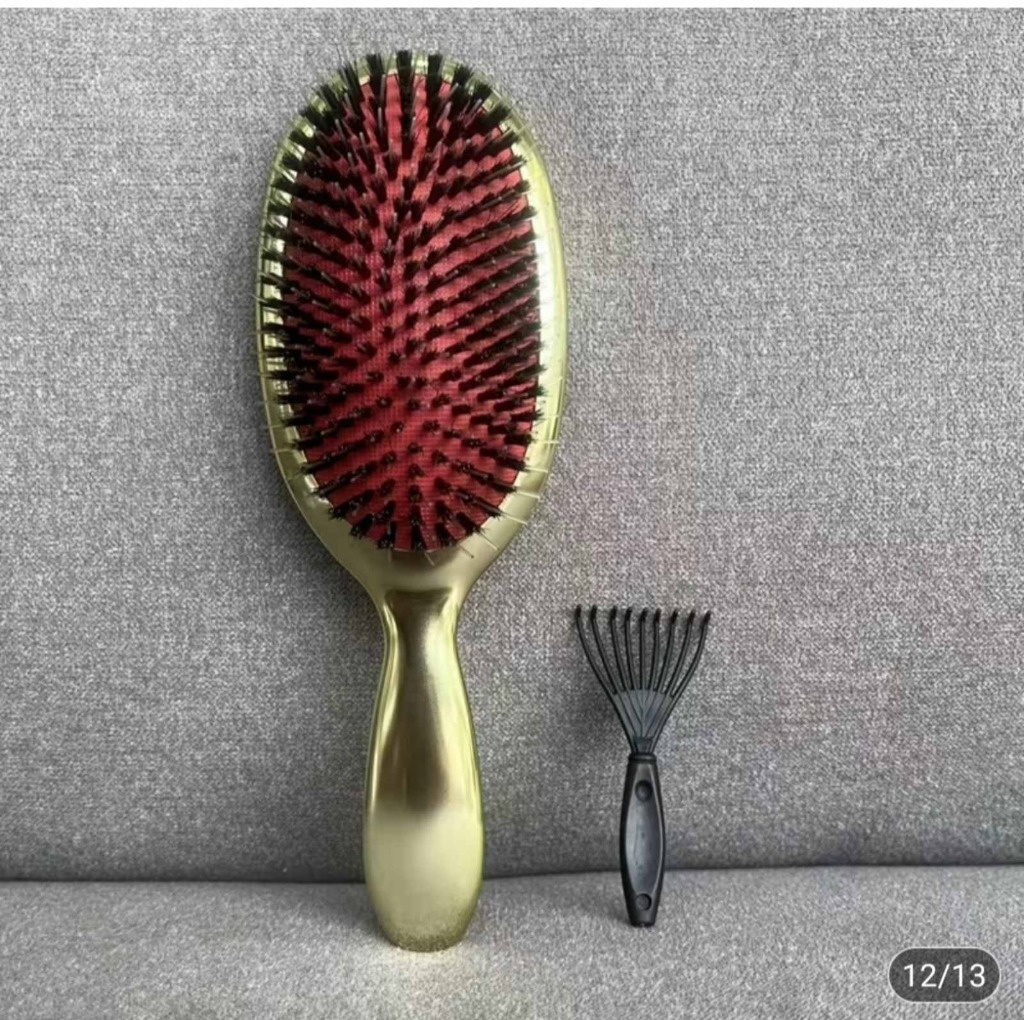
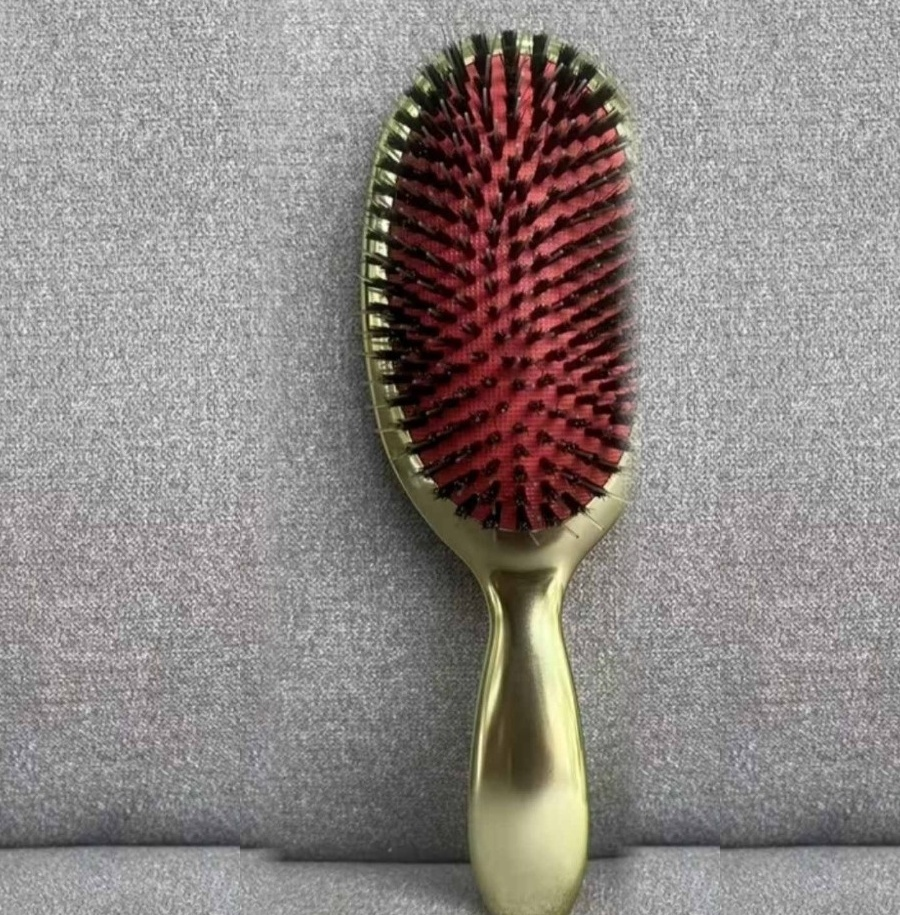
Set official salon address to Sunny Beach, Kamelia, Park 1, No 2, Fl 1 and update boar bristle brush to 14.99 EUR without comb

diff --git a/index.html b/index.html
@@ -64,13 +64,12 @@
   <div class="bg-stone-900 text-white text-[11px] sm:text-xs py-2 px-4 border-b border-amber-500/20">
     <div class="max-w-7xl mx-auto flex items-center justify-between">
       <div class="flex items-center gap-4 text-stone-300 font-medium tracking-wide">
-        <span class="hidden md:inline-flex items-center gap-1.5">
-          <i data-lucide="shield-check" class="w-3.5 h-3.5 text-amber-400"></i>
-          100% Необработена Славянска Коса (Single Donor Cuticle Intact)
+        <span class="inline-flex items-center gap-1.5 text-amber-400 font-bold">
+          <i data-lucide="map-pin" class="w-3.5 h-3.5"></i>
+          Салон: к.к. Слънчев бряг, кв. Камелия, Парк 1, № 2, ет. 1
         </span>
-        <span class="inline-flex items-center gap-1.5 text-amber-300 font-semibold">
-          <i data-lucide="truck" class="w-3.5 h-3.5"></i>
-          Бърза доставка с преглед и тест със Спиди / Еконт
+        <span class="hidden xl:inline-flex items-center gap-1.5 text-stone-400">
+          • 100% Славянска Коса • Доставка с преглед и тест
         </span>
       </div>
       <div class="flex items-center gap-3 sm:gap-4 font-mono text-xs">
@@ -247,13 +246,13 @@
         
         <div class="text-center max-w-3xl mx-auto mb-8 sm:mb-12">
           <div class="inline-block text-xs uppercase tracking-widest text-amber-400 font-mono font-bold mb-2">
-            [ Ексклузивни Процедури • София & Варна ]
+            [ Салон & Бутик • к.к. Слънчев бряг, кв. Камелия, Парк 1, № 2, ет. 1 ]
           </div>
           <h2 class="font-cinzel text-2xl sm:text-4xl lg:text-5xl font-bold text-white mb-3">
             Разкрий своята красота с <span class="text-amber-400 font-cormorant italic font-normal">прецизност и внимание към детайла</span>
           </h2>
           <p class="text-stone-400 text-xs sm:text-sm">
-            Запазете своя индивидуален час за удължаване на коса, японски спа ритуал или професионално обучение при Деница.
+            Запазете своя индивидуален час в салона ни в Слънчев бряг за удължаване на коса, японски спа ритуал или професионално обучение при Деница.
           </p>
         </div>
 
@@ -281,16 +280,16 @@
                 <a href="#hair-configurator" class="mila-bronze-btn w-full sm:w-auto px-3 sm:px-6 py-2.5 sm:py-3 text-[11px] sm:text-xs uppercase tracking-wider font-bold shadow-md text-center justify-center">
                   ПОДРОБНОСТИ
                 </a>
-                <a href="#booking" data-city="София" data-service="Удължаване със Славянска Коса 55см" class="mila-dark-btn w-full sm:w-auto px-2 sm:px-6 py-2.5 sm:py-3 text-[11px] sm:text-xs tracking-wider font-bold shadow-md text-center justify-center truncate">
-                  Запази в София
+                <a href="#booking" data-city="Слънчев бряг" data-service="Удължаване със Славянска Коса 55см" class="mila-dark-btn w-full sm:w-auto px-2 sm:px-6 py-2.5 sm:py-3 text-[11px] sm:text-xs tracking-wider font-bold shadow-md text-center justify-center truncate">
+                  Запази в Салона
                 </a>
               </div>
               <div class="grid grid-cols-2 gap-2 sm:flex sm:items-center sm:gap-3 w-full">
                 <a href="#booking" data-vip="true" data-service="Удължаване със Славянска Коса" class="mila-bronze-btn w-full sm:w-auto px-3 sm:px-6 py-2.5 sm:py-3 text-[11px] sm:text-xs uppercase tracking-wider font-bold shadow-md text-center justify-center">
-                  VIP ЧАС
+                  VIP ЧАС В САЛОНА
                 </a>
-                <a href="#booking" data-city="Варна" data-service="Удължаване със Славянска Коса 55см" class="mila-dark-btn w-full sm:w-auto px-2 sm:px-6 py-2.5 sm:py-3 text-[11px] sm:text-xs tracking-wider font-bold shadow-md text-center justify-center truncate">
-                  Запази във Варна
+                <a href="#hair-configurator" class="mila-dark-btn w-full sm:w-auto px-2 sm:px-6 py-2.5 sm:py-3 text-[11px] sm:text-xs tracking-wider font-bold shadow-md text-center justify-center truncate">
+                  Поръчай с 20 € Капаро
                 </a>
               </div>
             </div>
@@ -321,16 +320,16 @@
                 <a href="#head-spa" class="mila-bronze-btn w-full sm:w-auto px-3 sm:px-6 py-2.5 sm:py-3 text-[11px] sm:text-xs uppercase tracking-wider font-bold shadow-md text-center justify-center">
                   ПОДРОБНОСТИ
                 </a>
-                <a href="#booking" data-city="София" data-service="Японски Waterfall Head Spa Ритуал" class="mila-dark-btn w-full sm:w-auto px-2 sm:px-6 py-2.5 sm:py-3 text-[11px] sm:text-xs tracking-wider font-bold shadow-md text-center justify-center truncate">
-                  Запази в София
+                <a href="#booking" data-city="Слънчев бряг" data-service="Японски Waterfall Head Spa Ритуал" class="mila-dark-btn w-full sm:w-auto px-2 sm:px-6 py-2.5 sm:py-3 text-[11px] sm:text-xs tracking-wider font-bold shadow-md text-center justify-center truncate">
+                  Запази в Салона
                 </a>
               </div>
               <div class="grid grid-cols-2 gap-2 sm:flex sm:items-center sm:gap-3 w-full">
                 <a href="#booking" data-vip="true" data-service="Японски Waterfall Head Spa Ритуал" class="mila-bronze-btn w-full sm:w-auto px-3 sm:px-6 py-2.5 sm:py-3 text-[11px] sm:text-xs uppercase tracking-wider font-bold shadow-md text-center justify-center">
-                  VIP ЧАС
+                  VIP ЧАС В САЛОНА
                 </a>
-                <a href="#booking" data-city="Варна" data-service="Японски Waterfall Head Spa Ритуал" class="mila-dark-btn w-full sm:w-auto px-2 sm:px-6 py-2.5 sm:py-3 text-[11px] sm:text-xs tracking-wider font-bold shadow-md text-center justify-center truncate">
-                  Запази във Варна
+                <a href="tel:+359893022677" class="mila-dark-btn w-full sm:w-auto px-2 sm:px-6 py-2.5 sm:py-3 text-[11px] sm:text-xs tracking-wider font-bold shadow-md text-center justify-center truncate">
+                  📞 0893 02 26 77
                 </a>
               </div>
             </div>
@@ -351,7 +350,7 @@
                 Обучения за Стилисти
               </h3>
               <p class="font-sans text-base sm:text-xl font-bold text-white/95 mt-1 drop-shadow-sm">
-                Курс по Удължаване & Сгъстяване на Коса — 500 € (980 лв.) с ПОДАРЪК официален авторски учебник в началото на курса!
+                Курс по Удължаване & Сгъстяване на Коса — 500 € (980 лв.) в салона ни в Слънчев бряг с ПОДАРЪК официален авторски учебник в началото на курса!
               </p>
               <p class="text-xs sm:text-sm text-amber-300 font-mono font-medium">
                 Редовна цена на учебника самостоятелно: 20 € (39 лв.) <span class="line-through text-stone-400 text-xs">27 € (53 лв.)</span>
@@ -364,17 +363,17 @@
                 <a href="#academy" class="mila-bronze-btn w-full sm:w-auto px-3 sm:px-6 py-2.5 sm:py-3 text-[11px] sm:text-xs uppercase tracking-wider font-bold shadow-md text-center justify-center">
                   ПОДРОБНОСТИ
                 </a>
-                <a href="#booking" data-city="София" data-service="Курс по Удължаване & Сгъстяване на Коса" class="mila-dark-btn w-full sm:w-auto px-2 sm:px-6 py-2.5 sm:py-3 text-[11px] sm:text-xs tracking-wider font-bold shadow-md text-center justify-center truncate">
-                  Курс в София (500 €)
+                <a href="#booking" data-city="Слънчев бряг" data-service="Курс по Удължаване & Сгъстяване на Коса" class="mila-dark-btn w-full sm:w-auto px-2 sm:px-6 py-2.5 sm:py-3 text-[11px] sm:text-xs tracking-wider font-bold shadow-md text-center justify-center truncate">
+                  Курс в Салона (500 €)
                 </a>
               </div>
               <div class="grid grid-cols-2 gap-2 sm:flex sm:items-center sm:gap-3 w-full">
                 <button class="add-to-cart-btn mila-bronze-btn w-full sm:w-auto px-3 sm:px-6 py-2.5 sm:py-3 text-[11px] sm:text-xs uppercase tracking-wider font-bold shadow-md text-center justify-center" data-id="book_quick" data-title="Официален Авторски Учебник DS — ПРОМО" data-price="39">
                   Купи Учебника: 20 €
                 </button>
-                <a href="#booking" data-city="Варна" data-service="Курс по Удължаване & Сгъстяване на Коса" class="mila-dark-btn w-full sm:w-auto px-2 sm:px-6 py-2.5 sm:py-3 text-[11px] sm:text-xs tracking-wider font-bold shadow-md text-center justify-center truncate">
-                  Курс във Варна (500 €)
-                </a>
+                <button class="add-to-cart-btn mila-dark-btn w-full sm:w-auto px-2 sm:px-6 py-2.5 sm:py-3 text-[11px] sm:text-xs tracking-wider font-bold shadow-md text-center justify-center truncate" data-id="p_brush" data-title="Четка с Глигански Косъм DS" data-price="29">
+                  Купи Четка: 14.99 €
+                </button>
               </div>
             </div>
           </div>
@@ -394,7 +393,7 @@
                 Терапии за Коса & Поддръжка
               </h3>
               <p class="font-sans text-base sm:text-xl font-bold text-white/95 mt-1 drop-shadow-sm">
-                Дълбока кератинова инфузия, ботокс блясък & прекапсулиране на кичури
+                Дълбока кератинова инфузия, ботокс блясък & прекапсулиране на кичури в Слънчев бряг
               </p>
             </div>
 
@@ -404,16 +403,16 @@
                 <a href="#hair-configurator" class="mila-bronze-btn w-full sm:w-auto px-3 sm:px-6 py-2.5 sm:py-3 text-[11px] sm:text-xs uppercase tracking-wider font-bold shadow-md text-center justify-center">
                   ПОДРОБНОСТИ
                 </a>
-                <a href="#booking" data-city="София" data-service="Терапия и Поддръжка на Коса" class="mila-dark-btn w-full sm:w-auto px-2 sm:px-6 py-2.5 sm:py-3 text-[11px] sm:text-xs tracking-wider font-bold shadow-md text-center justify-center truncate">
-                  Запази в София
+                <a href="#booking" data-city="Слънчев бряг" data-service="Терапия и Поддръжка на Коса" class="mila-dark-btn w-full sm:w-auto px-2 sm:px-6 py-2.5 sm:py-3 text-[11px] sm:text-xs tracking-wider font-bold shadow-md text-center justify-center truncate">
+                  Запази в Салона
                 </a>
               </div>
               <div class="grid grid-cols-2 gap-2 sm:flex sm:items-center sm:gap-3 w-full">
                 <a href="#booking" data-vip="true" data-service="Терапия и Поддръжка на Коса" class="mila-bronze-btn w-full sm:w-auto px-3 sm:px-6 py-2.5 sm:py-3 text-[11px] sm:text-xs uppercase tracking-wider font-bold shadow-md text-center justify-center">
-                  VIP ЧАС
+                  VIP ЧАС В САЛОНА
                 </a>
-                <a href="#booking" data-city="Варна" data-service="Терапия и Поддръжка на Коса" class="mila-dark-btn w-full sm:w-auto px-2 sm:px-6 py-2.5 sm:py-3 text-[11px] sm:text-xs tracking-wider font-bold shadow-md text-center justify-center truncate">
-                  Запази във Варна
+                <a href="tel:+359893022677" class="mila-dark-btn w-full sm:w-auto px-2 sm:px-6 py-2.5 sm:py-3 text-[11px] sm:text-xs tracking-wider font-bold shadow-md text-center justify-center truncate">
+                  📞 0893 02 26 77
                 </a>
               </div>
             </div>
@@ -895,10 +894,10 @@
               <div class="space-y-2">
                 <label class="flex items-center justify-between p-3 rounded-xl border border-stone-200 hover:border-amber-400 bg-white cursor-pointer transition-all">
                   <div class="flex items-center gap-2.5">
-                    <input type="checkbox" id="addBrushCheckbox" data-price="35" class="w-4 h-4 text-amber-600 rounded">
-                    <span class="text-xs text-stone-900 font-semibold">Специална Златна Четка за Екстеншъни DS с Естествен Глигански Косъм + Гребен</span>
+                    <input type="checkbox" id="addBrushCheckbox" data-price="29" class="w-4 h-4 text-amber-600 rounded">
+                    <span class="text-xs text-stone-900 font-semibold">Специална Златна Четка за Екстеншъни DS с Естествен Глигански Косъм</span>
                   </div>
-                  <span class="text-xs font-mono font-bold text-amber-800">+35 лв.</span>
+                  <span class="text-xs font-mono font-bold text-amber-800">+14.99 € (29 лв.)</span>
                 </label>
                 
                 <label class="flex items-center justify-between p-3 rounded-xl border border-stone-200 hover:border-amber-400 bg-white cursor-pointer transition-all">
@@ -1153,18 +1152,18 @@
               <div class="relative aspect-square rounded-2xl overflow-hidden bg-stone-100 mb-4 border border-stone-200 flex items-center justify-center">
                 <img src="assets/boar_bristle_brush.jpg" alt="Златна Четка за Екстеншъни с Естествен Глигански Косъм" class="w-full h-full object-cover">
                 <span class="absolute top-3 left-3 bg-amber-400 text-black text-[10px] font-mono font-bold px-3 py-1 rounded-full shadow-sm">
-                  Златен Комплект с Гребенче
+                  100% Естествен Косъм • 14.99 €
                 </span>
               </div>
               <div class="text-[10px] text-stone-500 font-mono uppercase">Грижа за екстеншъни</div>
               <h4 class="font-cinzel text-sm font-bold text-stone-900 mt-1">Четка за Екстеншъни с Естествен Глигански Косъм DS</h4>
               <p class="text-stone-600 text-xs mt-1.5 leading-relaxed">
-                Луксозна златна въздушна четка с естествен глигански косъм и предпазни щифтове + гребенче за почистване. Плъзга се свободно през капсулите без скубане.
+                Луксозна златна пневматична четка с естествен глигански косъм и предпазни гъвкави щифтове (предлагаме само четката). Плъзга се свободно през капсули, треси и стикери без скубане.
               </p>
             </div>
             <div class="flex items-center justify-between mt-5 pt-3 border-t border-stone-100">
-              <span class="font-cinzel text-lg font-bold text-stone-900">35 лв.</span>
-              <button class="add-to-cart-btn luxury-gold-btn px-4 py-2 rounded-full text-xs uppercase tracking-wider text-black" data-id="p_brush" data-title="Четка с Глигански Косъм + Гребен DS" data-price="35">
+              <span class="font-cinzel text-lg font-bold text-stone-900">14.99 € <span class="text-xs text-stone-500 font-mono font-normal">(29 лв.)</span></span>
+              <button class="add-to-cart-btn luxury-gold-btn px-4 py-2 rounded-full text-xs uppercase tracking-wider text-black" data-id="p_brush" data-title="Четка с Глигански Косъм DS" data-price="29">
                 <i data-lucide="plus" class="w-3.5 h-3.5 mr-1"></i> Купи
               </button>
             </div>
@@ -1303,7 +1302,7 @@
                     <span class="px-2.5 py-0.5 rounded-full bg-amber-400 text-black text-[10px] font-mono font-bold">500 € (980 лв.) • ВКЛЮЧЕН УЧЕБНИК ПОДАРЪК</span>
                   </div>
                   <div class="text-xs text-stone-600 mt-1 leading-relaxed">
-                    Индивидуално обучение върху реален модел в <strong>София и Варна</strong>. Включва пълен професионален стартов пакет, официален Сертификат за квалификация и <strong>ПОДАРЪК официален авторски учебник още в първия ден (началото на курса)!</strong>
+                    Индивидуално обучение върху реален модел в <strong>салона в к.к. Слънчев бряг (кв. Камелия, Парк 1, № 2, ет. 1)</strong>. Включва пълен професионален стартов пакет, официален Сертификат за квалификация и <strong>ПОДАРЪК официален авторски учебник още в първия ден (началото на курса)!</strong>
                   </div>
                 </div>
               </div>
@@ -1905,24 +1904,23 @@
           <!-- Location / City Selection -->
           <div>
             <label class="text-xs uppercase tracking-widest font-mono text-amber-800 block font-bold mb-3">
-              1. Изберете Локация & Тип Час
+              1. Локация на Салона & Тип Посещение
             </label>
-            <div class="grid grid-cols-2 sm:grid-cols-4 gap-2.5" id="citySelectionGroup">
-              <label class="flex items-center justify-center p-3 rounded-xl border border-stone-200 hover:border-amber-400 bg-stone-50 cursor-pointer text-center transition-all has-[:checked]:bg-stone-900 has-[:checked]:text-white has-[:checked]:border-amber-400">
-                <input type="radio" name="booking_city" value="София" id="cityRadioSofia" checked class="hidden">
-                <span class="text-xs font-bold">📍 София</span>
+            <div class="grid grid-cols-1 sm:grid-cols-3 gap-2.5" id="citySelectionGroup">
+              <label class="flex flex-col items-center justify-center p-3.5 rounded-2xl border-2 border-amber-400 hover:border-amber-500 bg-amber-50/70 cursor-pointer text-center transition-all has-[:checked]:bg-stone-900 has-[:checked]:text-white has-[:checked]:border-amber-400">
+                <input type="radio" name="booking_city" value="Слънчев бряг" id="cityRadioSunnyBeach" checked class="hidden">
+                <span class="text-xs font-bold text-amber-950 has-[:checked]:text-white">📍 Салон в к.к. Слънчев бряг</span>
+                <span class="text-[10px] text-stone-600 mt-0.5 has-[:checked]:text-amber-300">кв. Камелия, Парк 1, № 2, ет. 1</span>
               </label>
-              <label class="flex items-center justify-center p-3 rounded-xl border border-stone-200 hover:border-amber-400 bg-stone-50 cursor-pointer text-center transition-all has-[:checked]:bg-stone-900 has-[:checked]:text-white has-[:checked]:border-amber-400">
-                <input type="radio" name="booking_city" value="Варна" id="cityRadioVarna" class="hidden">
-                <span class="text-xs font-bold">📍 Варна</span>
-              </label>
-              <label class="flex items-center justify-center p-3 rounded-xl border border-stone-200 hover:border-amber-400 bg-stone-50 cursor-pointer text-center transition-all has-[:checked]:bg-amber-600 has-[:checked]:text-white has-[:checked]:border-amber-500">
+              <label class="flex flex-col items-center justify-center p-3.5 rounded-2xl border border-stone-200 hover:border-amber-400 bg-stone-50 cursor-pointer text-center transition-all has-[:checked]:bg-amber-600 has-[:checked]:text-white has-[:checked]:border-amber-500">
                 <input type="radio" name="booking_city" value="VIP ЧАС" id="cityRadioVIP" class="hidden">
-                <span class="text-xs font-bold">👑 VIP ЧАС</span>
+                <span class="text-xs font-bold">👑 Индивидуален VIP ЧАС</span>
+                <span class="text-[10px] text-stone-500 mt-0.5 has-[:checked]:text-amber-100">В салона или на адрес</span>
               </label>
-              <label class="flex items-center justify-center p-3 rounded-xl border border-stone-200 hover:border-amber-400 bg-stone-50 cursor-pointer text-center transition-all has-[:checked]:bg-stone-900 has-[:checked]:text-white has-[:checked]:border-amber-400">
+              <label class="flex flex-col items-center justify-center p-3.5 rounded-2xl border border-stone-200 hover:border-amber-400 bg-stone-50 cursor-pointer text-center transition-all has-[:checked]:bg-stone-900 has-[:checked]:text-white has-[:checked]:border-amber-400">
                 <input type="radio" name="booking_city" value="Онлайн Поръчка / Куриер" id="cityRadioDelivery" class="hidden">
-                <span class="text-xs font-bold">📦 Доставка с Тест</span>
+                <span class="text-xs font-bold">📦 Поръчка на Коса за Доставка</span>
+                <span class="text-[10px] text-stone-500 mt-0.5 has-[:checked]:text-amber-300">Спиди / Еконт с преглед & тест</span>
               </label>
             </div>
           </div>
@@ -1966,10 +1964,10 @@
               </label>
 
               <label class="flex items-center gap-3 p-3.5 rounded-2xl border border-stone-200 hover:border-amber-400 bg-stone-50 cursor-pointer transition-all">
-                <input type="checkbox" name="service" value="Комплект: Четка за Екстеншъни DS + Учебник ПРОМО" data-price="74" class="w-4 h-4 text-amber-600 rounded">
+                <input type="checkbox" name="service" value="Четка за Екстеншъни DS с Глигански Косъм (29 лв. / 14.99 €)" data-price="29" class="w-4 h-4 text-amber-600 rounded">
                 <div class="flex-1">
-                  <div class="text-xs font-bold text-stone-900 font-cinzel">Четка DS (35лв) + Учебник ПРОМО (39лв)</div>
-                  <div class="text-[11px] text-stone-500 font-mono">74 лв. <span class="line-through text-stone-400 text-[10px]">88 лв.</span></div>
+                  <div class="text-xs font-bold text-stone-900 font-cinzel">Четка за Екстеншъни с Глигански Косъм DS</div>
+                  <div class="text-[11px] text-stone-500 font-mono">14.99 € (29 лв.) • Само четката</div>
                 </div>
               </label>
 
@@ -2072,7 +2070,7 @@
               <i data-lucide="chevron-down" class="w-4 h-4 text-amber-700 transition-transform"></i>
             </summary>
             <p class="text-stone-600 text-xs mt-3 leading-relaxed border-t border-stone-200 pt-3">
-              Стандартните четки имат малки пластмасови топчета на върха на влакната, които лесно се заклещват в кератиновите капсули или стикерите и ги издърпват. Специалната <strong>четка за екстеншъни DS Loop Brush (35 лв.)</strong> има специални обли бристли без топчета, които се плъзгат плавно през корена без никакво накъсване.
+              Стандартните четки имат малки пластмасови топчета на върха на влакната, които лесно се заклещват в кератиновите капсули или стикерите и ги издърпват. Специалната <strong>четка за екстеншъни DS с естествен глигански косъм (14.99 € / 29 лв.)</strong> има специални обли бристли без топчета, които се плъзгат плавно през корена без никакво накъсване.
             </p>
           </details>
 
@@ -2143,7 +2141,11 @@
 
         <!-- Contact Details -->
         <div class="space-y-3 text-xs">
-          <div class="font-cinzel font-bold text-amber-400 uppercase tracking-wider text-sm">Контакти & Поръчки</div>
+          <div class="font-cinzel font-bold text-amber-400 uppercase tracking-wider text-sm">Салон & Бутик</div>
+          <p class="text-stone-300 font-bold text-xs flex items-start gap-2">
+            <i data-lucide="map-pin" class="w-4 h-4 text-amber-400 shrink-0 mt-0.5"></i>
+            <span><strong>к.к. Слънчев бряг</strong>, кв. Камелия, Парк 1, № 2, ет. 1</span>
+          </p>
           <p class="text-stone-300 font-mono font-bold text-sm">
             <a href="tel:+359893022677" class="hover:text-amber-400 flex items-center gap-2">
               <i data-lucide="phone" class="w-4 h-4 text-amber-400"></i>
@@ -2153,9 +2155,10 @@
           <p class="text-stone-400">
             Работно време: Понеделник - Събота: 09:30 - 19:30 ч.
           </p>
-          <p class="text-stone-400">
-            Локации на студиото: гр. София / гр. Варна
-          </p>
+          <a href="https://maps.google.com/?q=Sunny+Beach+Park+1" target="_blank" class="inline-flex items-center gap-1 text-[11px] text-amber-400 hover:underline font-bold">
+            <i data-lucide="navigation" class="w-3 h-3"></i>
+            Навигация в Google Maps
+          </a>
         </div>
 
         <!-- Security & Delivery Guarantee -->
@@ -2526,6 +2529,6 @@
   </div>
 
   <!-- Main JavaScript Engine -->
-  <script src="app.js?v=deposit20"></script>
+  <script src="app.js?v=sunnybeach1"></script>
 </body>
 </html>

diff --git a/app.js b/app.js
@@ -489,7 +489,7 @@ document.addEventListener('DOMContentLoaded', () => {
       addToCart(mainTitle, totalBgn, `custom_hair_${Date.now()}`);
 
       if (hairConfigState.addBrush) {
-        addToCart('Четка за Екстеншъни с Естествен Глигански Косъм + Гребен DS', 35, 'upsell_brush');
+        addToCart('Четка за Екстеншъни с Естествен Глигански Косъм DS', 29, 'upsell_brush');
       }
       if (hairConfigState.addBook) {
         addToCart('Официален Авторски Учебник (Деница Ставракиева) — ПРОМО', 39, 'upsell_book');
@@ -982,9 +982,9 @@ document.addEventListener('DOMContentLoaded', () => {
       }];
 
       if (hairConfigState.addBrush) {
-        items.push({ title: 'Специална Четка за Екстеншъни DS с Глигански Косъм', price: 35, qty: 1 });
-        totalBgn += 35;
-        totalEur += 18;
+        items.push({ title: 'Специална Четка за Екстеншъни DS с Глигански Косъм (14.99 €)', price: 29, qty: 1 });
+        totalBgn += 29;
+        totalEur += 15;
       }
       if (hairConfigState.addBook) {
         items.push({ title: 'Официален Авторски Учебник (Деница Ставракиева) — ПРОМО', price: 39, qty: 1 });
@@ -1273,11 +1273,8 @@ document.addEventListener('DOMContentLoaded', () => {
       const isVip = link.dataset.vip;
       const targetService = link.dataset.service;
 
-      if (targetCity === 'София') {
-        const r = document.getElementById('cityRadioSofia');
-        if (r) r.checked = true;
-      } else if (targetCity === 'Варна') {
-        const r = document.getElementById('cityRadioVarna');
+      if (targetCity === 'Слънчев бряг' || targetCity === 'София' || targetCity === 'Варна') {
+        const r = document.getElementById('cityRadioSunnyBeach');
         if (r) r.checked = true;
       } else if (isVip) {
         const r = document.getElementById('cityRadioVIP');
